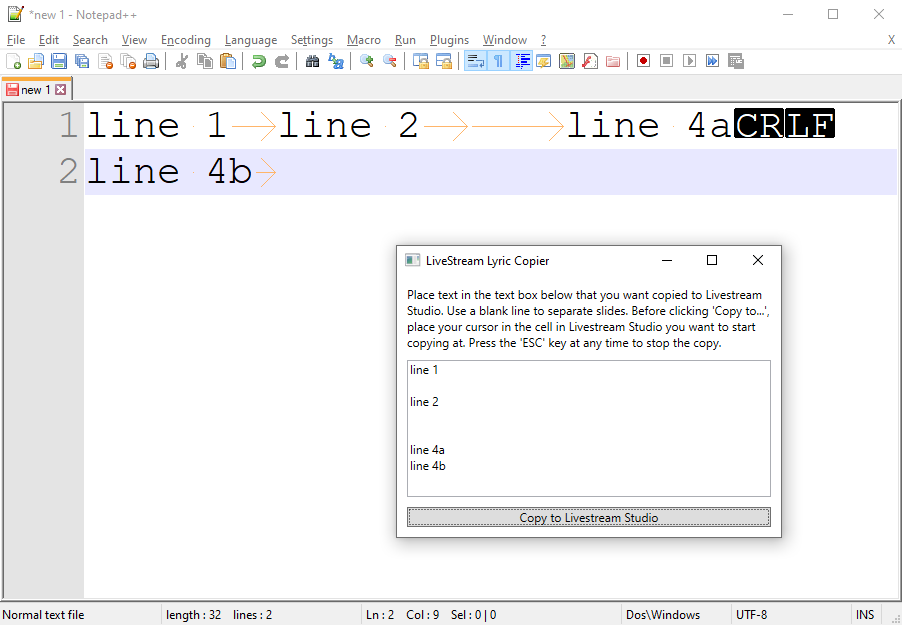
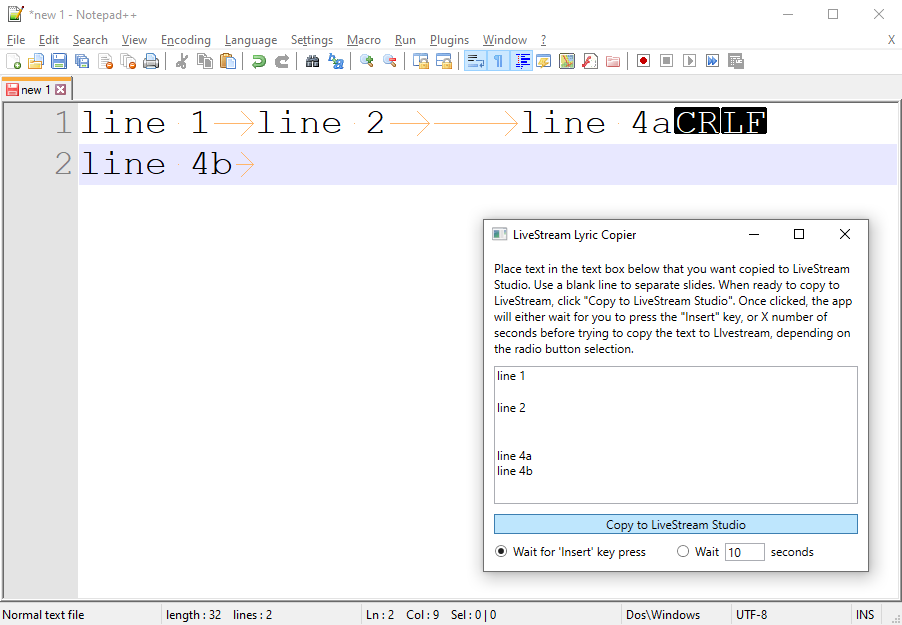
Updated documentation

Changed region(s): [[0.4346, 0.3344, 0.9933, 0.9424], [0.0621, 0.152, 0.9313, 0.9728], [0.2173, 0.2432, 0.2794, 0.304]]

diff --git a/README.md b/README.md
@@ -1,1 +1,11 @@
-# LivestreamLyricCopier
+# Livestream Lyric Copier
+
+
+1. Paste lyrics into app. Format as needed - contiguous lines will be placed into the same cell. A blank line will move to the next cell. Two blank lines in a row will move two cells down.
+2. Change the delay method, if desired.
+
+   1. Wait for 'Insert' key press - Waits for the user to press the 'Insert' key before copying the lyrics. To use this mode, once you click "Copy to LiveStream Studio", go to the LiveStream app and enter the edit mode on the cell you want to start pasting into. Once in edit mode, press the 'Insert' key and the Lyric Copier will begin copying text to LiveStream Studio.
+   2. Wait 'X' seconds - This method waits the specified number of seconds before starting to copy text to LiveStream Studio. This could be useful if using the 'Insert' key does not work for some reason (e.g. LiveStream Studio uses Insert as a hotkey for something that causes the cell to leave edit mode)
+3. Click "Copy to LiveStream Studio".
+4. ???
+5. Profit
